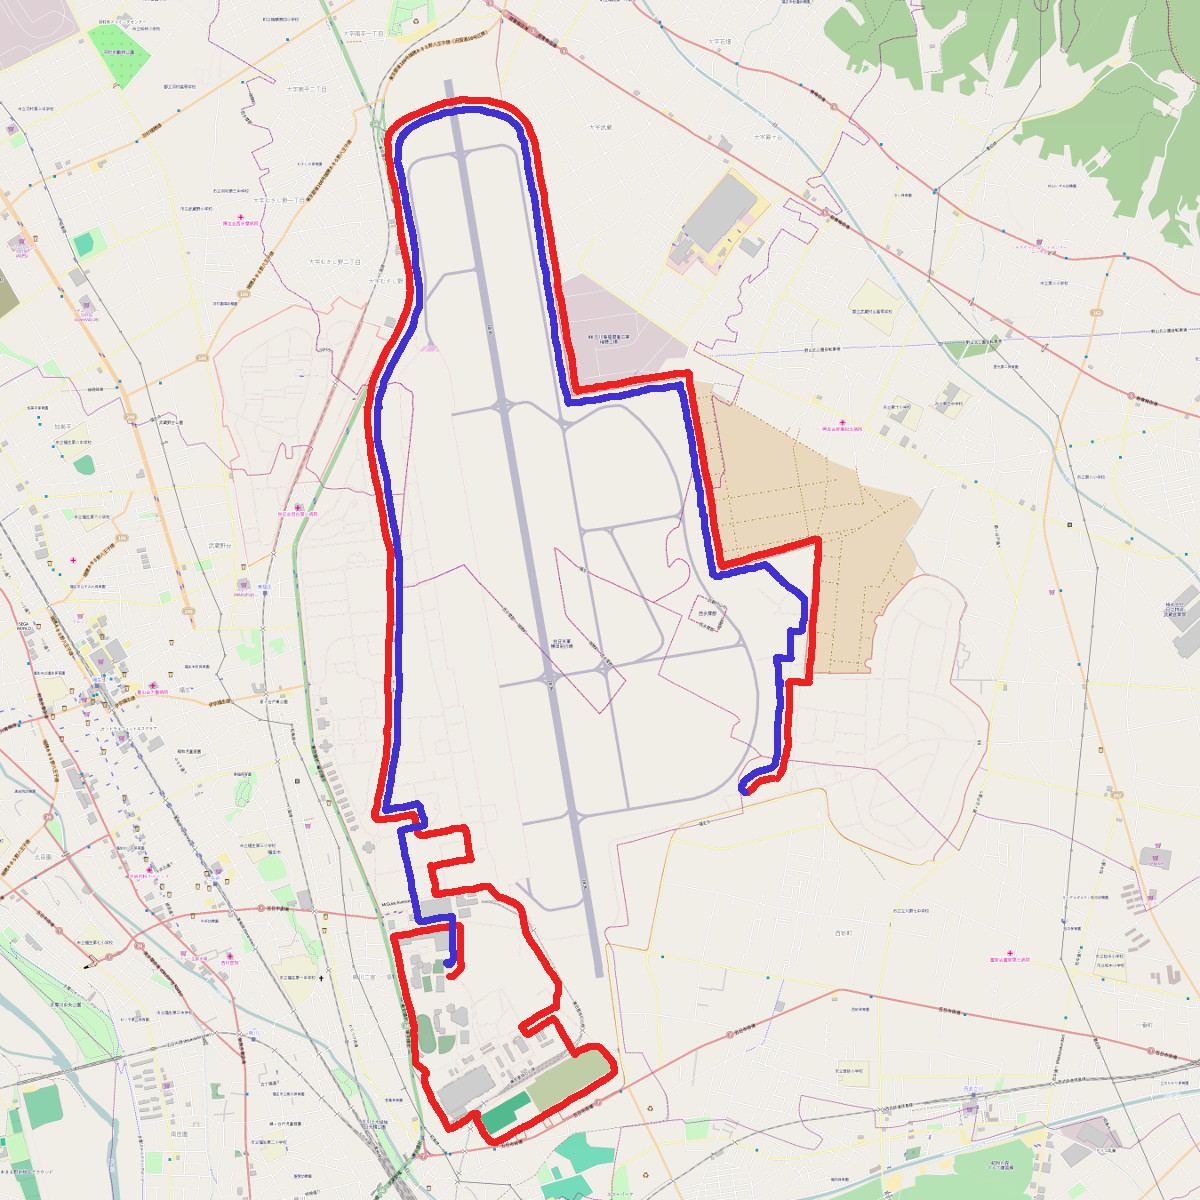
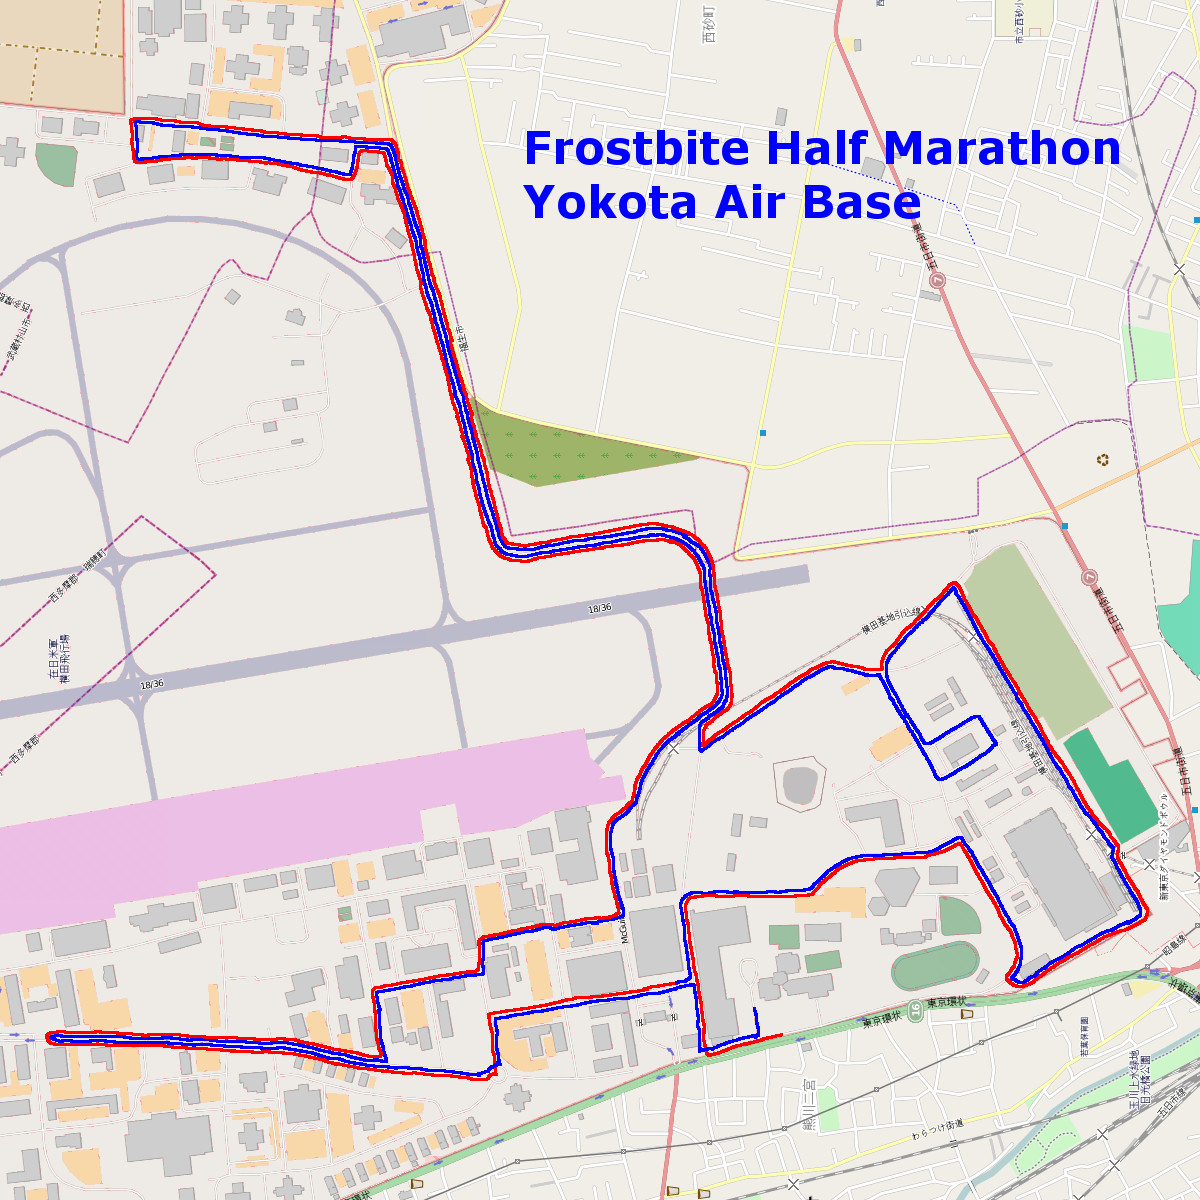
update 2017 course map

diff --git a/virtual-frostbite-halfmarathon/main.js b/virtual-frostbite-halfmarathon/main.js
@@ -8,7 +8,7 @@ var margin = {
 };
 
 //pathdata
-var pathdata = "M449,977 L455,974 L461,967 L460,925 L393,935 L414,1025 L415,1064 L426,1072 L423,1081 L448,1128 L473,1113 L477,1114 L476,1120 L489,1142 L498,1142 L614,1074 L614,1064 L600,1047 L588,1046 L574,1055 L554,1018 L525,1035 L520,1026 L556,1006 L557,982 L525,933 L521,909 L516,904 L498,897 L489,886 L436,893 L432,866 L470,858 L464,828 L419,836 L412,814 L372,818 L386,744 L389,553 L367,426 L368,399 L375,370 L405,312 L408,280 L386,140 L392,128 L436,106 L462,100 L493,101 L513,108 L525,121 L535,143 L576,390 L688,374 L722,566 L817,540 L808,683 L790,682 L787,747 L778,781 L761,781 L747,794 L740,792 L739,784 L745,777 L758,771 L774,764 L778,682 L775,659 L789,658 L789,631 L802,631 L804,599 L764,565 L712,578 L679,387 L565,403 L519,129 L507,119 L478,110 L457,110 L436,116 L410,128 L399,142 L397,161 L418,281 L419,306 L411,329 L382,383 L376,410 L378,444 L398,554 L398,743 L385,809 L418,804 L425,824 L399,832 L419,924 L450,917 L452,962 L445,966";
+var pathdata = "M781,1034 L707,1055 L684,903 L691,896 L813,894 L861,860 L925,856 L958,842 L1014,943 L1016,956 L1013,966 L1004,976 L1014,986 L1024,986 L1060,961 L1109,934 L1127,928 L1145,919 L1146,908 L1117,857 L1118,846 L1092,814 L958,584 L949,582 L882,657 L881,668 L866,668 L832,661 L822,662 L809,669 L703,743 L703,726 L725,711 L732,700 L711,560 L702,544 L689,533 L671,526 L653,522 L527,544 L511,543 L505,539 L501,531 L394,143 L389,139 L135,117 L131,122 L133,158 L137,162 L183,157 L275,163 L347,179 L354,176 L357,154 L361,150 L384,152 L488,540 L495,551 L504,557 L530,558 L654,538 L665,539 L678,544 L694,558 L699,571 L717,684 L716,694 L712,702 L660,739 L648,756 L636,779 L631,800 L609,819 L606,829 L607,855 L610,874 L618,906 L617,913 L598,918 L582,918 L554,925 L540,924 L483,936 L478,942 L478,968 L475,971 L439,975 L375,987 L372,992 L375,1013 L377,1041 L382,1056 L367,1056 L294,1039 L49,1031 L48,1033 L45,1037 L48,1042 L54,1044 L170,1046 L288,1053 L386,1072 L485,1079 L496,1072 L488,1013 L685,979 L689,975 L679,901 L690,892 L809,889 L841,862 L862,854 L925,851 L936,847 L955,837 L962,837 L1019,942 L1021,958 L1018,968 L1010,977 L1018,981 L1024,981 L1050,961 L1102,931 L1137,916 L1140,908 L1111,857 L1112,847 L1084,812 L1069,788 L952,587 L887,659 L887,678 L923,742 L930,742 L973,716 L980,717 L995,742 L994,746 L942,779 L936,776 L879,674 L866,675 L829,666 L828,670 L704,751 L698,749 L699,724 L722,706 L727,692 L708,565 L700,547 L683,535 L667,530 L644,528 L520,550 L505,547 L497,535 L390,145 L268,137 L135,122 L138,159 L179,154 L264,157 L349,174 L356,146 L387,148 L494,541 L501,550 L519,555 L651,534 L664,534 L680,540 L693,549 L703,568 L721,689 L719,699 L715,705 L662,746 L641,780 L636,803 L626,812 L613,822 L609,832 L611,851 L622,907 L620,918 L555,930 L546,928 L483,941 L482,974 L376,992 L385,1061 L289,1043 L55,1035 L50,1037 L57,1040 L284,1047 L369,1065 L478,1074 L500,1063 L494,1018 L692,984 L699,1050 L757,1034 L752,1007";
 //size
 var width = root.clientWidth - margin.left - margin.right;
 var height = root.clientHeight - margin.top - margin.bottom;
@@ -241,7 +241,7 @@ var drawArea = svg
 	'stroke-dashoffset': 0,
 	});
 	var t2 = t*2;
-var str = "M449,977 L455,974 L461,967 L460,925 L393,935 L414,1025 L415,1064 L426,1072 L423,1081 L448,1128 L473,1113 L477,1114 L476,1120 L489,1142 L498,1142 L614,1074 L614,1064 L600,1047 L588,1046 L574,1055 L554,1018 L525,1035 L520,1026 L556,1006 L557,982 L525,933 L521,909 L516,904 L498,897 L489,886 L436,893 L432,866 L470,858 L464,828 L419,836 L412,814 L372,818 L386,744 L389,553 L367,426 L368,399 L375,370 L405,312 L408,280 L386,140 L392,128 L436,106 L462,100 L493,101 L513,108 L525,121 L535,143 L576,390 L688,374 L722,566 L817,540 L808,683 L790,682 L787,747 L778,781 L761,781 L747,794 L740,792 L739,784 L745,777 L758,771 L774,764 L778,682 L775,659 L789,658 L789,631 L802,631 L804,599 L764,565 L712,578 L679,387 L565,403 L519,129 L507,119 L478,110 L457,110 L436,116 L410,128 L399,142 L397,161 L418,281 L419,306 L411,329 L382,383 L376,410 L378,444 L398,554 L398,743 L385,809 L418,804 L425,824 L399,832 L419,924 L450,917 L452,962 L445,966";
+var str = "M781,1034 L707,1055 L684,903 L691,896 L813,894 L861,860 L925,856 L958,842 L1014,943 L1016,956 L1013,966 L1004,976 L1014,986 L1024,986 L1060,961 L1109,934 L1127,928 L1145,919 L1146,908 L1117,857 L1118,846 L1092,814 L958,584 L949,582 L882,657 L881,668 L866,668 L832,661 L822,662 L809,669 L703,743 L703,726 L725,711 L732,700 L711,560 L702,544 L689,533 L671,526 L653,522 L527,544 L511,543 L505,539 L501,531 L394,143 L389,139 L135,117 L131,122 L133,158 L137,162 L183,157 L275,163 L347,179 L354,176 L357,154 L361,150 L384,152 L488,540 L495,551 L504,557 L530,558 L654,538 L665,539 L678,544 L694,558 L699,571 L717,684 L716,694 L712,702 L660,739 L648,756 L636,779 L631,800 L609,819 L606,829 L607,855 L610,874 L618,906 L617,913 L598,918 L582,918 L554,925 L540,924 L483,936 L478,942 L478,968 L475,971 L439,975 L375,987 L372,992 L375,1013 L377,1041 L382,1056 L367,1056 L294,1039 L49,1031 L48,1033 L45,1037 L48,1042 L54,1044 L170,1046 L288,1053 L386,1072 L485,1079 L496,1072 L488,1013 L685,979 L689,975 L679,901 L690,892 L809,889 L841,862 L862,854 L925,851 L936,847 L955,837 L962,837 L1019,942 L1021,958 L1018,968 L1010,977 L1018,981 L1024,981 L1050,961 L1102,931 L1137,916 L1140,908 L1111,857 L1112,847 L1084,812 L1069,788 L952,587 L887,659 L887,678 L923,742 L930,742 L973,716 L980,717 L995,742 L994,746 L942,779 L936,776 L879,674 L866,675 L829,666 L828,670 L704,751 L698,749 L699,724 L722,706 L727,692 L708,565 L700,547 L683,535 L667,530 L644,528 L520,550 L505,547 L497,535 L390,145 L268,137 L135,122 L138,159 L179,154 L264,157 L349,174 L356,146 L387,148 L494,541 L501,550 L519,555 L651,534 L664,534 L680,540 L693,549 L703,568 L721,689 L719,699 L715,705 L662,746 L641,780 L636,803 L626,812 L613,822 L609,832 L611,851 L622,907 L620,918 L555,930 L546,928 L483,941 L482,974 L376,992 L385,1061 L289,1043 L55,1035 L50,1037 L57,1040 L284,1047 L369,1065 L478,1074 L500,1063 L494,1018 L692,984 L699,1050 L757,1034 L752,1007";
 	var path3 = svg.append("path")
 	.attr({
 		'd': str,
